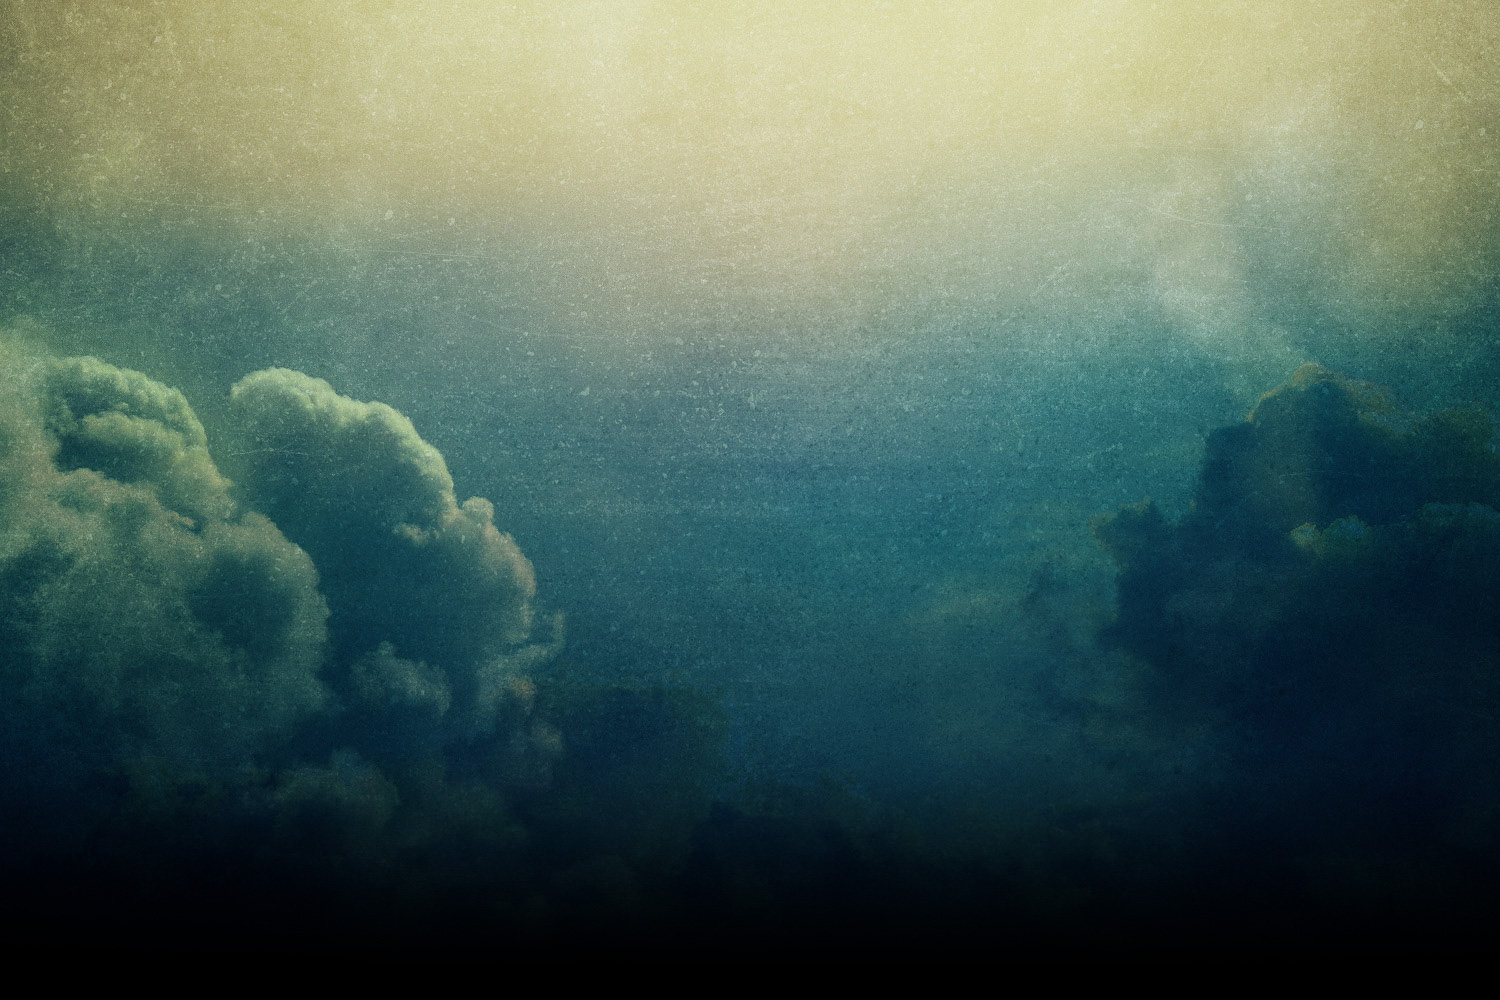
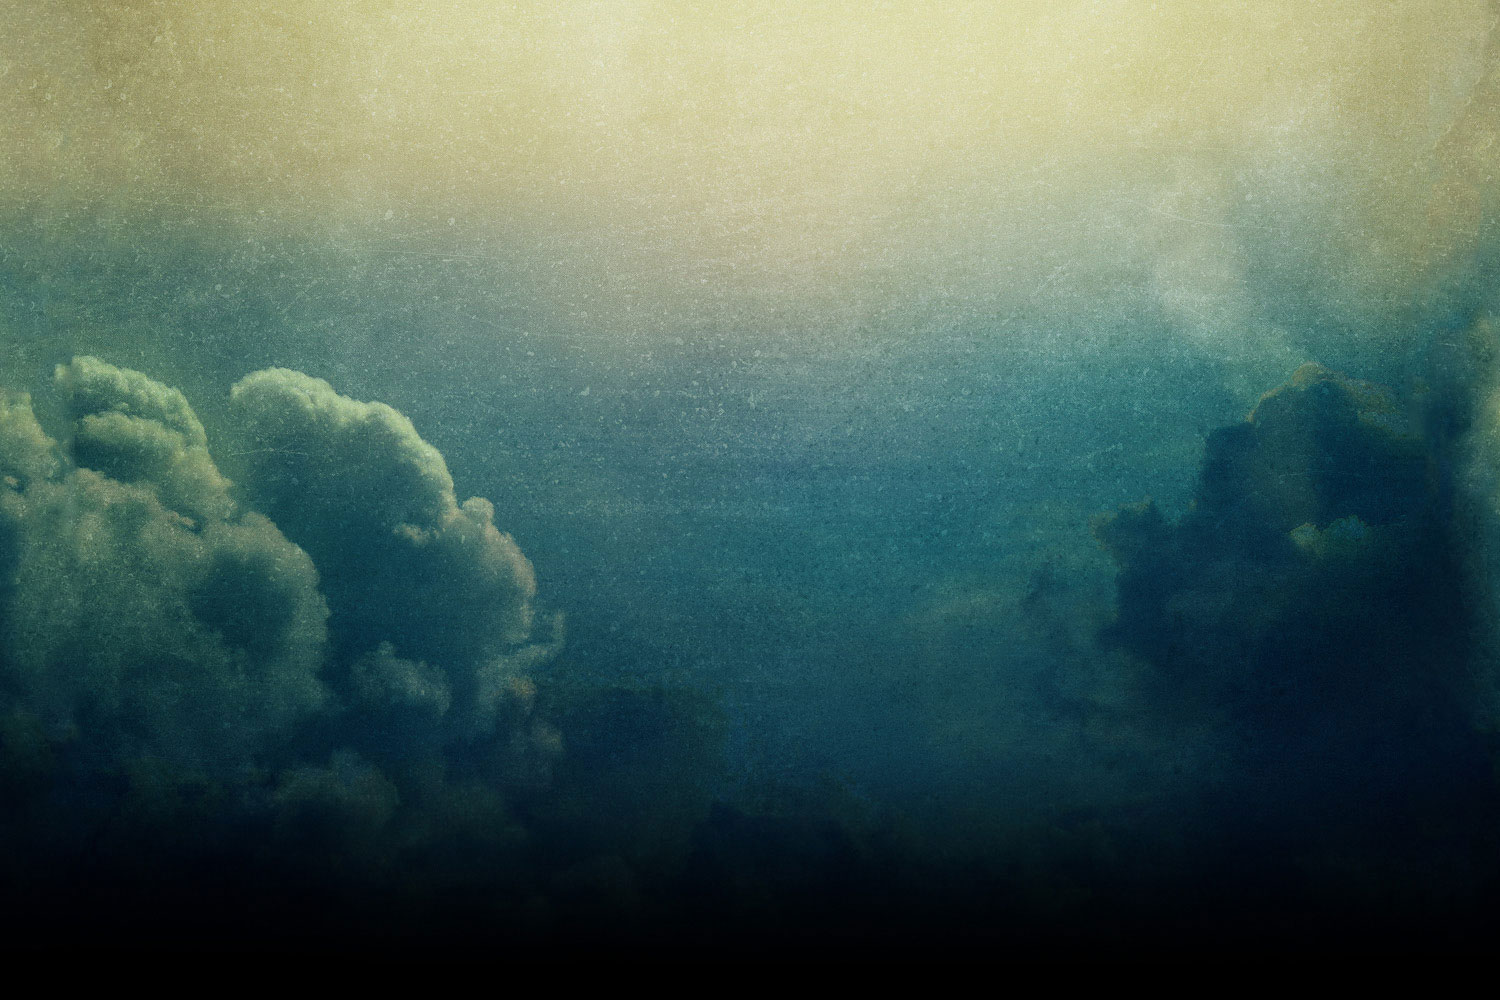
Made background seamless for app page

Changed region(s): [[0.0, 0.0, 0.0613, 0.62], [0.9507, 0.031, 1.0, 0.651]]

diff --git a/public/css/last.css b/public/css/last.css
@@ -188,7 +188,7 @@ a {
 
 #section-msg {
     background-image: url(/img/bg1.jpg);
-    background-repeat: no-repeat;
+    background-repeat: repeat-x;
     background-position: top;
     background-size: 2000px 1000px;
 }
